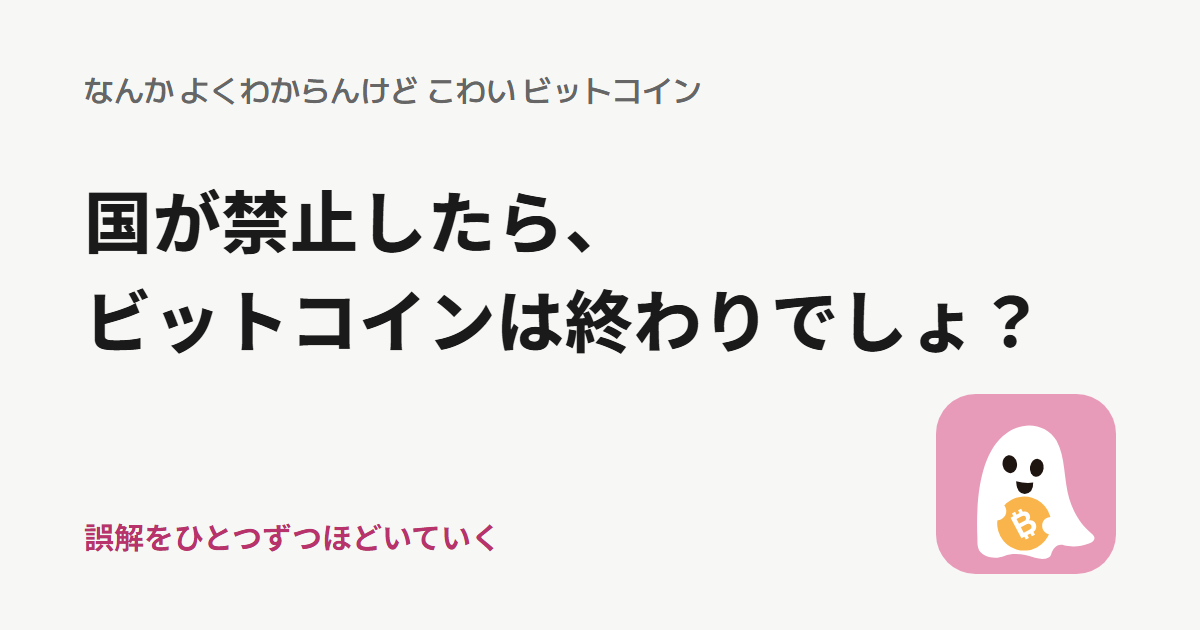
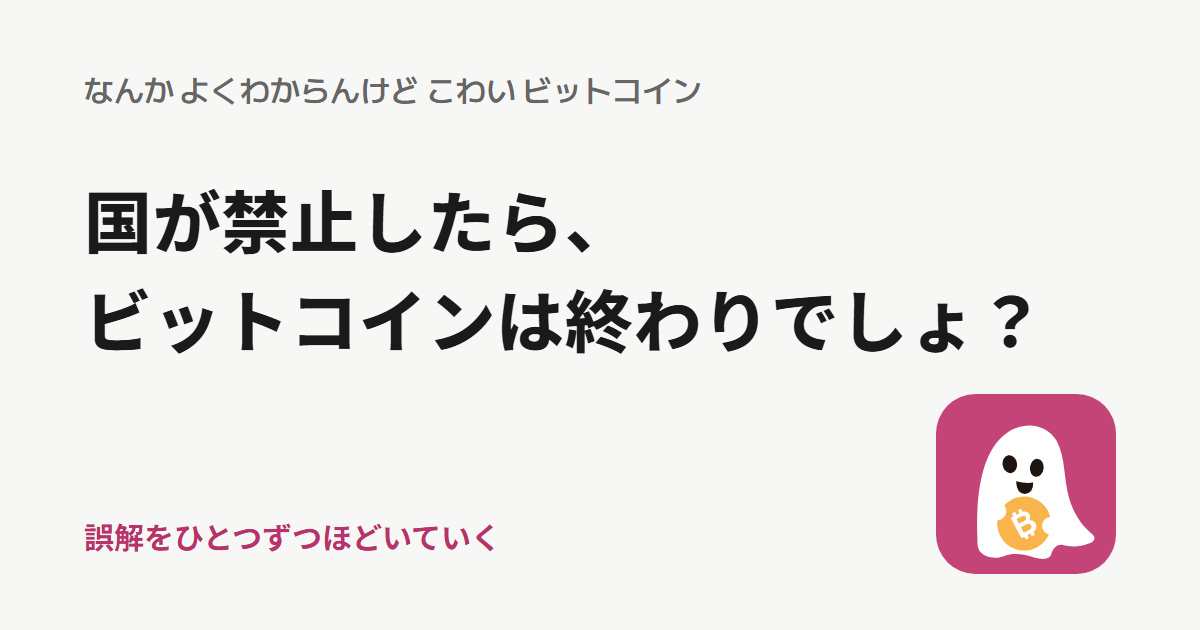
アイコンの背景をプライマリーカラーにそろえる

Changed region(s): [[0.7708, 0.6032, 0.9558, 0.9349]]

diff --git a/scripts/generate-images.js b/scripts/generate-images.js
@@ -12,7 +12,7 @@ const ROOT = path.resolve(path.dirname(fileURLToPath(import.meta.url)), '..');
 const STATIC = path.join(ROOT, 'static');
 
 const COLORS = {
-  tile: '#e89bb9',
+  tile: '#c44478',
   ghost: '#fff',
   face: '#1e1410',
   coin: '#f9b54c',
